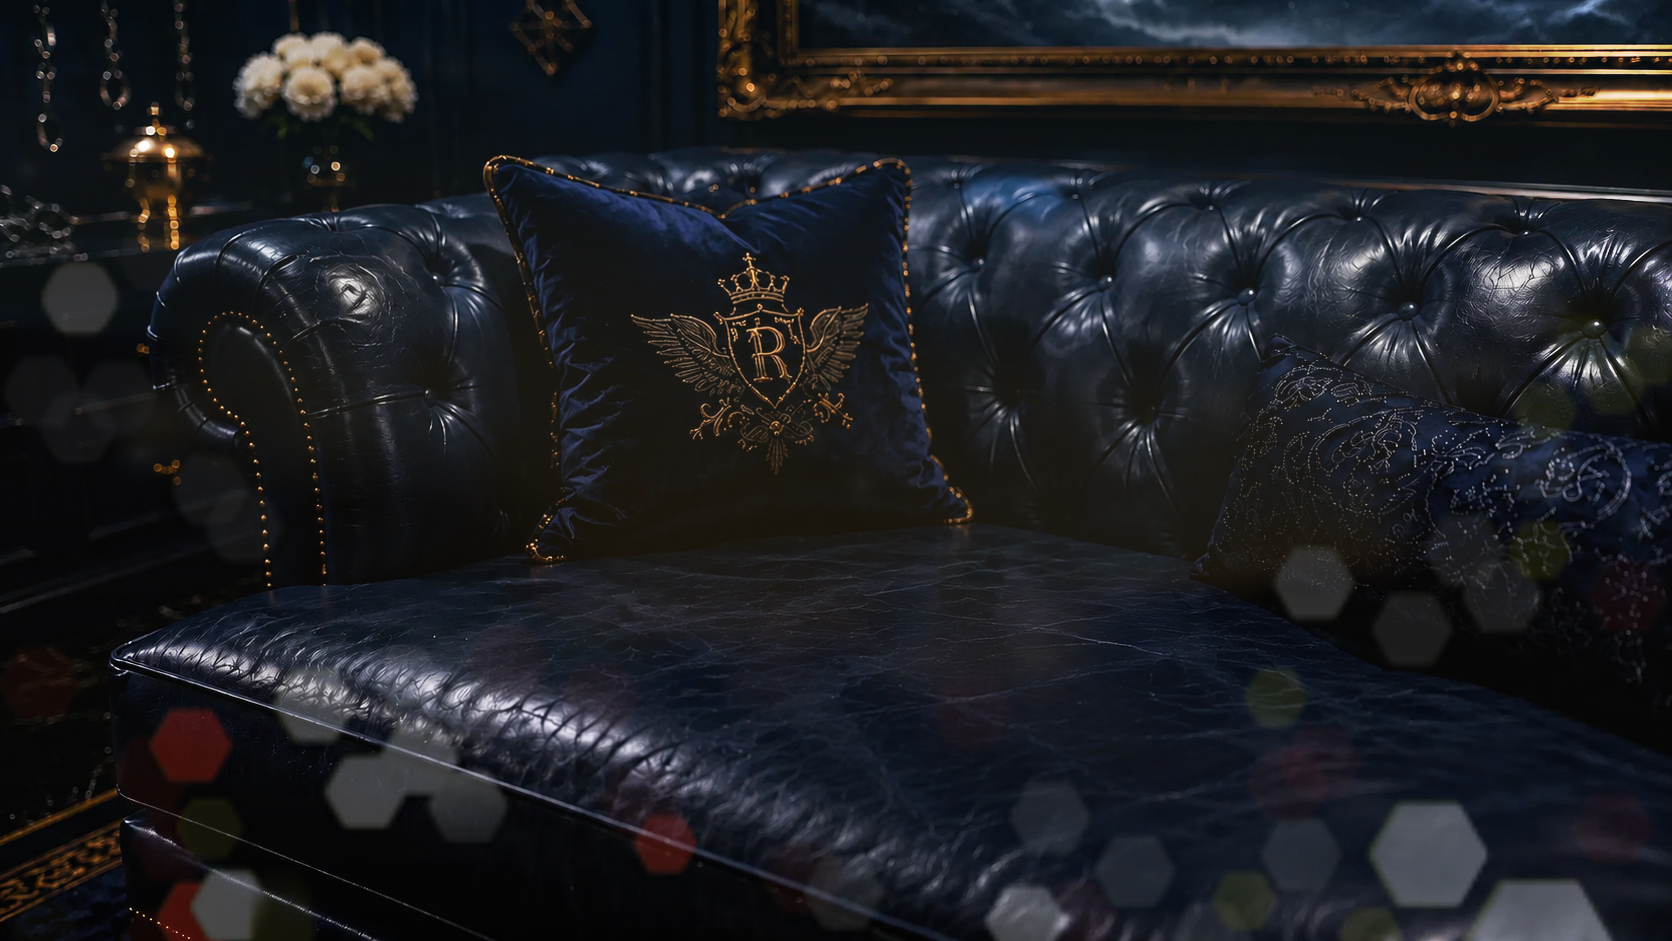
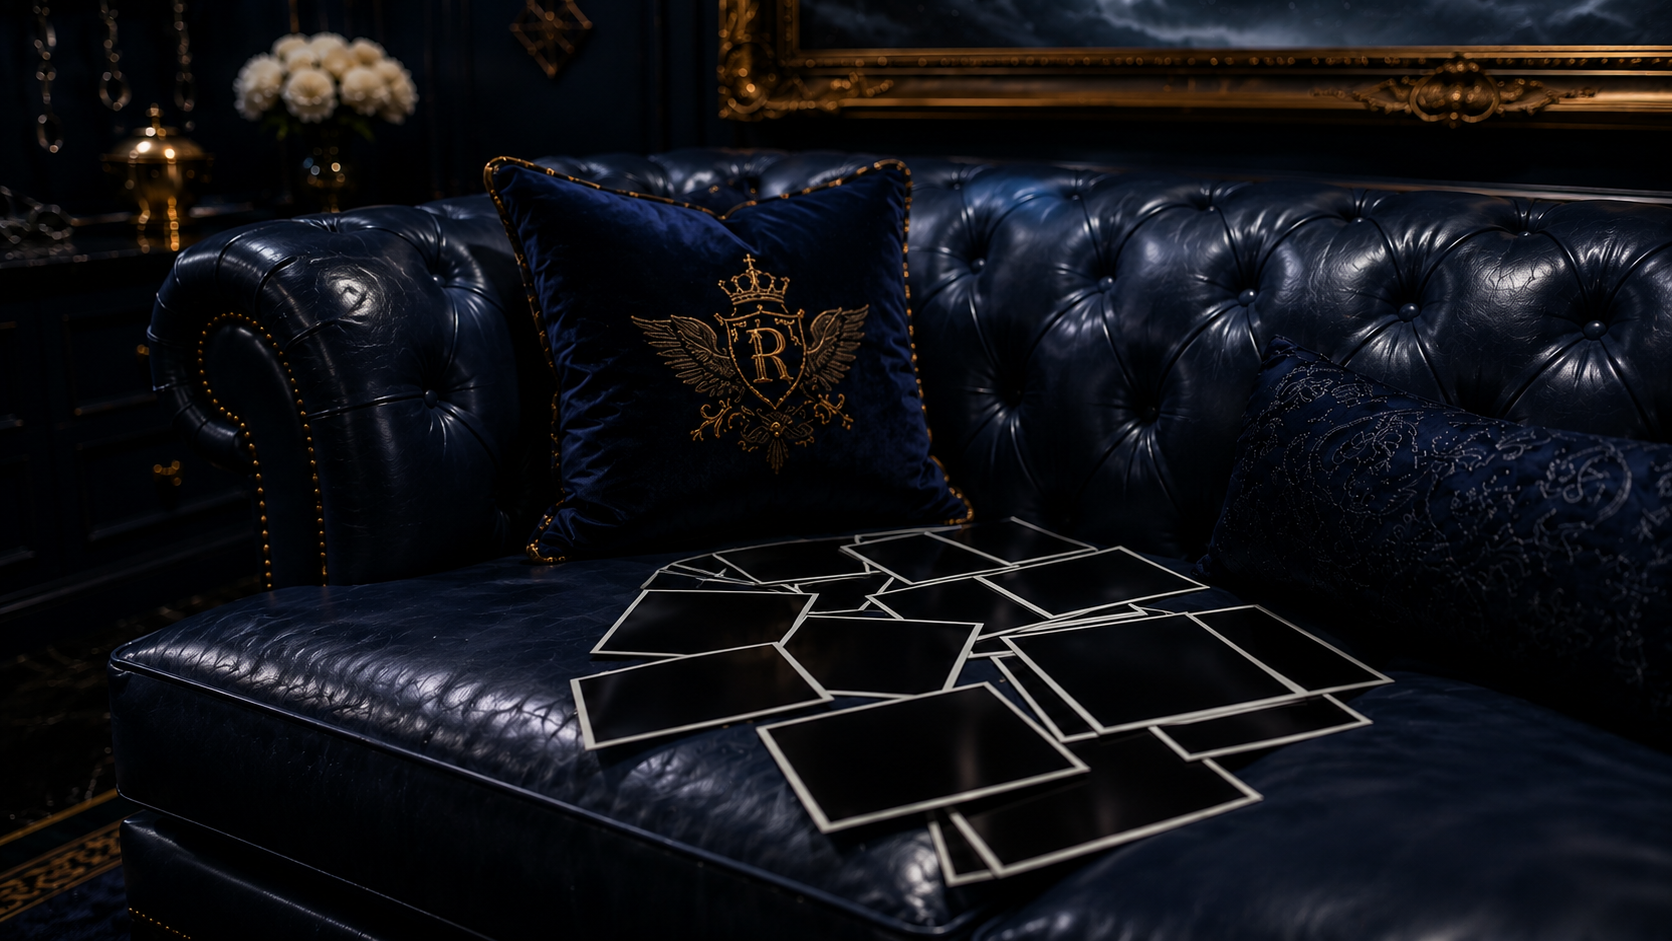
intro d room

diff --git a/src/scenes.ts b/src/scenes.ts
@@ -1,4 +1,13 @@
-export type SceneId = "atrium" | "door" | "archive" | "lineup" | "inside" | "B-room" | "B-desk" | "B-sofa";
+export type SceneId =
+  | "atrium"
+  | "door"
+  | "archive"
+  | "lineup"
+  | "inside"
+  | "B-room"
+  | "B-desk"
+  | "B-sofa"
+  | "D-room";
 
 export type Language = "en" | "th";
 
@@ -352,6 +361,10 @@ export const scenes: Record<SceneId, Scene> = {
         width: 12.2,
         height: 62.7,
         imageSrc: "/assets/red.png",
+        action: {
+          type: "scene",
+          target: "D-room",
+        },
       },
       {
         id: "inside-door-center-right",
@@ -518,6 +531,15 @@ export const scenes: Record<SceneId, Scene> = {
         },
       },
     ],
+    hotspots: [],
+  },
+  "D-room": {
+    id: "D-room",
+    name: "",
+    videoSrc: "/assets/d room.mp4",
+    posterSrc: "/assets/d_room_1.png",
+    aspectRatio: 16 / 9,
+    fallbackClassName: "fallback-d-room",
     hotspots: [],
   },
 };

diff --git a/src/App.tsx b/src/App.tsx
@@ -120,17 +120,22 @@ const previousSceneBySceneId: Partial<Record<SceneId, SceneId>> = {
   "B-room": "inside",
   "B-desk": "B-room",
   "B-sofa": "B-room",
+  "D-room": "inside",
 };
 
 const scenePathBySceneId: Partial<Record<SceneId, string>> = {
   "B-room": "/B-room",
   "B-desk": "/B-room",
   "B-sofa": "/B-room",
+  "D-room": "/D-room",
 };
 
 const getInitialSceneId = (): SceneId => {
   if (window.location.pathname === "/B-room") {
     return "B-room";
+  }
+  if (window.location.pathname === "/D-room") {
+    return "D-room";
   }
 
   return "atrium";
@@ -487,6 +492,15 @@ function App() {
       setScenePan({ x: 0, y: 0 });
       setTransitionTargetSceneId("B-room");
       setTransitionVideoSrc("");
+      setTransitionPhase("playing");
+      return;
+    }
+
+    if (sceneId === "inside" && action.target === "D-room") {
+      void new Audio("/assets/door-open.mp3").play();
+      setScenePan({ x: 0, y: 0 });
+      setTransitionTargetSceneId("D-room");
+      setTransitionVideoSrc("/assets/transition6.mp4");
       setTransitionPhase("playing");
       return;
     }
@@ -1105,7 +1119,11 @@ type SoundButtonProps = {
 };
 
 const getSceneAudioSrc = (sceneId: SceneId) =>
-  sceneId === "B-room" || sceneId === "B-desk" || sceneId === "B-sofa" ? "/assets/Rosen B.mp3" : "/assets/sound.mp3";
+  sceneId === "B-room" || sceneId === "B-desk" || sceneId === "B-sofa"
+    ? "/assets/Rosen B.mp3"
+    : sceneId === "D-room"
+      ? "/assets/Michael D.mp3"
+      : "/assets/sound.mp3";
 
 function SoundButton({ audioSrc }: SoundButtonProps) {
   const [isSoundOn, setIsSoundOn] = useState(true);

diff --git a/src/styles.css b/src/styles.css
@@ -100,7 +100,8 @@ button {
 .fallback-archive,
 .fallback-lineup,
 .fallback-inside,
-.fallback-b-room {
+.fallback-b-room,
+.fallback-d-room {
   background: #000;
 }
 
@@ -109,7 +110,8 @@ button {
 .fallback-archive::before,
 .fallback-lineup::before,
 .fallback-inside::before,
-.fallback-b-room::before {
+.fallback-b-room::before,
+.fallback-d-room::before {
   display: none;
 }
 